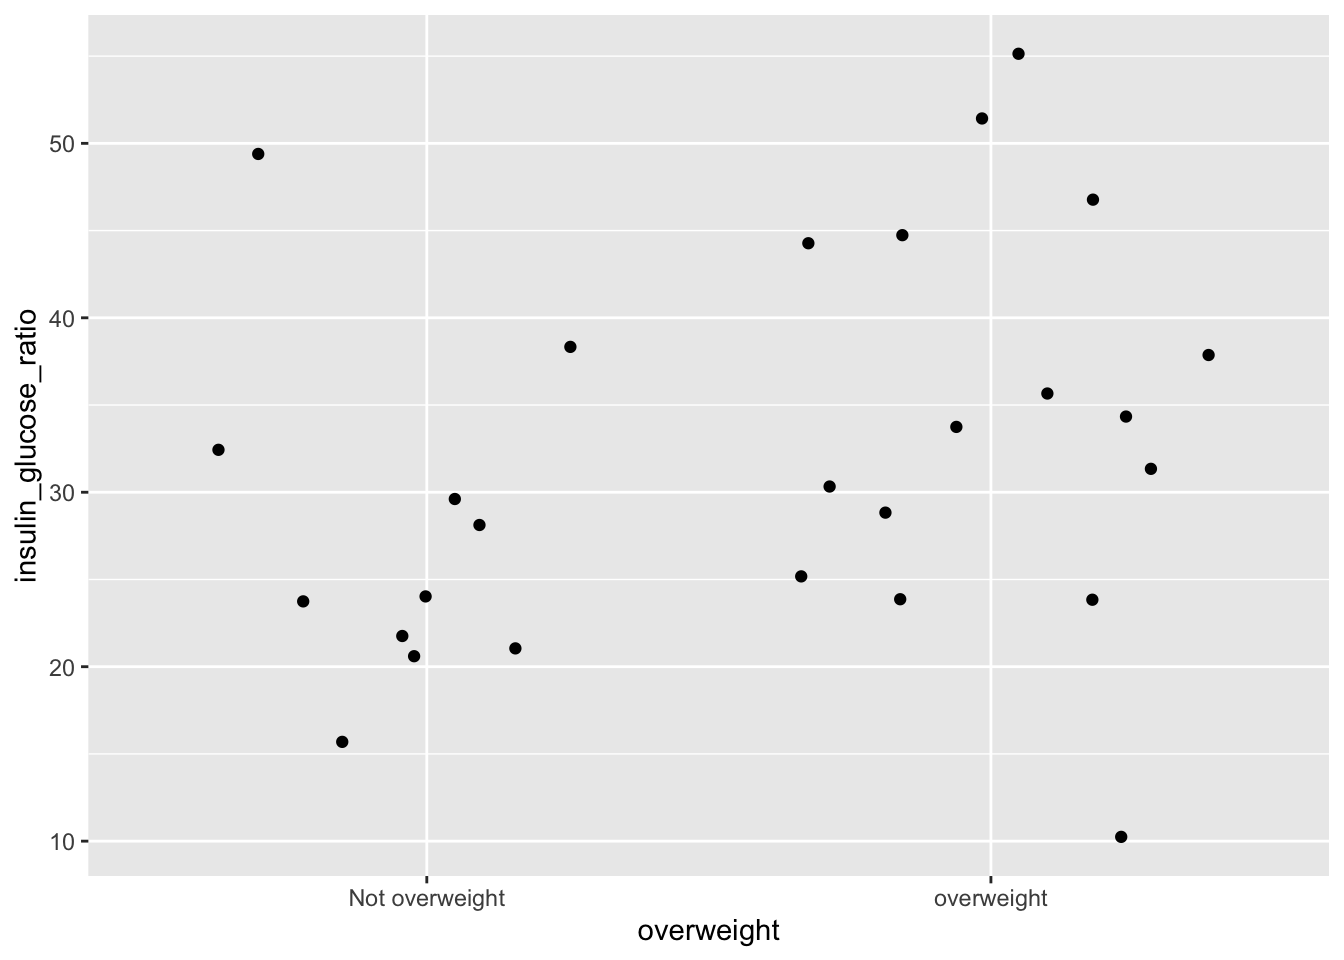
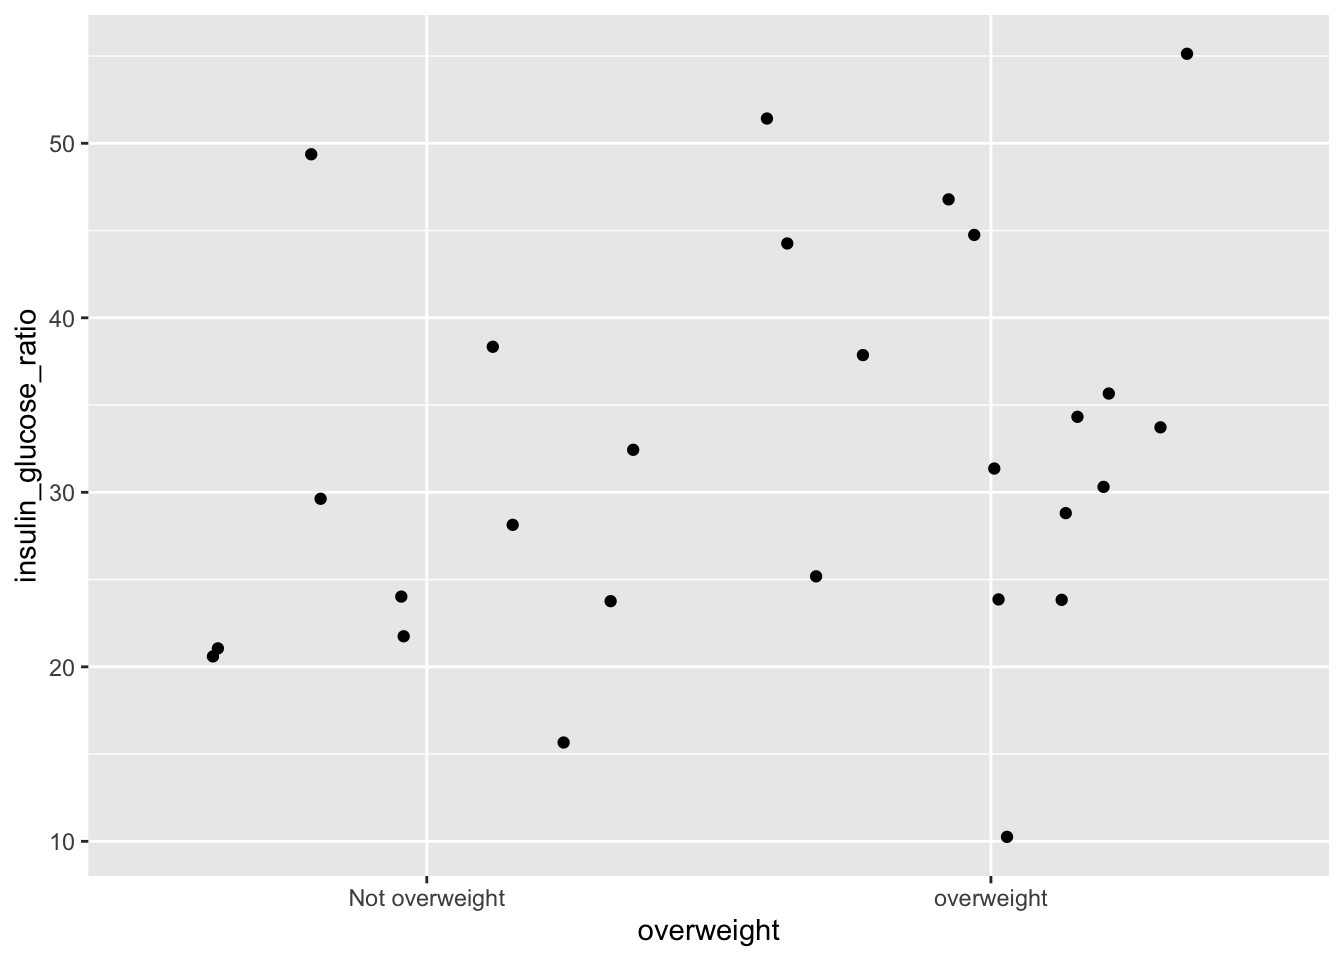
Splitting

diff --git a/learning.html b/learning.html
@@ -2430,8 +2430,9 @@ Figure&nbsp;4: scatterplot of BMI versus AUC pf blood glucose
 <h2 class="anchored" data-anchor-id="visualizing-with-jitter-plot">Visualizing with jitter plot</h2>
 <div class="cell">
 <div class="sourceCode cell-code" id="cb69"><pre class="sourceCode r code-with-copy"><code class="sourceCode r"><span id="cb69-1"><a href="#cb69-1" aria-hidden="true" tabindex="-1"></a>tidier_post_meal_data <span class="sc">|&gt;</span></span>
-<span id="cb69-2"><a href="#cb69-2" aria-hidden="true" tabindex="-1"></a>  <span class="fu">mutate</span>( <span class="at">overweight =</span> <span class="fu">if_else</span>( BMI <span class="sc">&gt;=</span> <span class="dv">25</span>, <span class="st">"overweight"</span>, <span class="st">"Not overweight"</span>)) <span class="sc">|&gt;</span></span>
-<span id="cb69-3"><a href="#cb69-3" aria-hidden="true" tabindex="-1"></a>  <span class="fu">ggplot</span>( <span class="fu">aes</span>( <span class="at">x =</span> overweight, <span class="at">y =</span> insulin_glucose_ratio)) <span class="sc">+</span> <span class="fu">geom_jitter</span>()</span></code><button title="Copy to Clipboard" class="code-copy-button"><i class="bi"></i></button></pre></div>
+<span id="cb69-2"><a href="#cb69-2" aria-hidden="true" tabindex="-1"></a>  <span class="fu">mutate</span>(<span class="at">overweight =</span> <span class="fu">if_else</span>(BMI <span class="sc">&gt;=</span> <span class="dv">25</span>, <span class="st">"overweight"</span>, <span class="st">"Not overweight"</span>)) <span class="sc">|&gt;</span></span>
+<span id="cb69-3"><a href="#cb69-3" aria-hidden="true" tabindex="-1"></a>  <span class="fu">ggplot</span>(<span class="fu">aes</span>(<span class="at">x =</span> overweight, <span class="at">y =</span> insulin_glucose_ratio)) <span class="sc">+</span></span>
+<span id="cb69-4"><a href="#cb69-4" aria-hidden="true" tabindex="-1"></a>  <span class="fu">geom_jitter</span>()</span></code><button title="Copy to Clipboard" class="code-copy-button"><i class="bi"></i></button></pre></div>
 <div class="cell-output-display">
 <div>
 <figure class="figure">
@@ -2443,7 +2444,8 @@ Figure&nbsp;4: scatterplot of BMI versus AUC pf blood glucose
 <div class="cell">
 <div class="sourceCode cell-code" id="cb70"><pre class="sourceCode r code-with-copy"><code class="sourceCode r"><span id="cb70-1"><a href="#cb70-1" aria-hidden="true" tabindex="-1"></a>tidier_post_meal_data <span class="sc">|&gt;</span></span>
 <span id="cb70-2"><a href="#cb70-2" aria-hidden="true" tabindex="-1"></a>  <span class="fu">filter</span>(BMI <span class="sc">&lt;</span> <span class="dv">30</span>) <span class="sc">|&gt;</span></span>
-<span id="cb70-3"><a href="#cb70-3" aria-hidden="true" tabindex="-1"></a>  <span class="fu">ggplot</span>( <span class="fu">aes</span>(<span class="at">x=</span> Age, <span class="at">y=</span> auc_insulin, <span class="at">color =</span> Group)) <span class="sc">+</span> <span class="fu">geom_point</span>()</span></code><button title="Copy to Clipboard" class="code-copy-button"><i class="bi"></i></button></pre></div>
+<span id="cb70-3"><a href="#cb70-3" aria-hidden="true" tabindex="-1"></a>  <span class="fu">ggplot</span>(<span class="fu">aes</span>(<span class="at">x =</span> Age, <span class="at">y =</span> auc_insulin, <span class="at">color =</span> Group)) <span class="sc">+</span></span>
+<span id="cb70-4"><a href="#cb70-4" aria-hidden="true" tabindex="-1"></a>  <span class="fu">geom_point</span>()</span></code><button title="Copy to Clipboard" class="code-copy-button"><i class="bi"></i></button></pre></div>
 <div class="cell-output-display">
 <div>
 <figure class="figure">
@@ -2456,9 +2458,9 @@ Figure&nbsp;4: scatterplot of BMI versus AUC pf blood glucose
 <div class="sourceCode cell-code" id="cb71"><pre class="sourceCode r code-with-copy"><code class="sourceCode r"><span id="cb71-1"><a href="#cb71-1" aria-hidden="true" tabindex="-1"></a>tidier_post_meal_data <span class="sc">|&gt;</span></span>
 <span id="cb71-2"><a href="#cb71-2" aria-hidden="true" tabindex="-1"></a>  <span class="fu">filter</span>(BMI <span class="sc">&lt;</span> <span class="dv">30</span>) <span class="sc">|&gt;</span></span>
 <span id="cb71-3"><a href="#cb71-3" aria-hidden="true" tabindex="-1"></a>  <span class="fu">mutate</span>(<span class="at">young =</span> <span class="fu">if_else</span>(Age <span class="sc">&lt;</span> <span class="dv">40</span>, <span class="st">"Young"</span>, <span class="st">"Old"</span>)) <span class="sc">|&gt;</span></span>
-<span id="cb71-4"><a href="#cb71-4" aria-hidden="true" tabindex="-1"></a>  <span class="fu">ggplot</span>(<span class="fu">aes</span>( <span class="at">x =</span> BMI, <span class="at">y =</span> insulin_glucose_ratio, <span class="at">colour =</span> Group )) <span class="sc">+</span> </span>
-<span id="cb71-5"><a href="#cb71-5" aria-hidden="true" tabindex="-1"></a>  <span class="fu">geom_point</span>() <span class="sc">+</span> </span>
-<span id="cb71-6"><a href="#cb71-6" aria-hidden="true" tabindex="-1"></a>  <span class="fu">facet_grid</span>( <span class="at">rows =</span> <span class="fu">vars</span> (young)) <span class="sc">+</span></span>
+<span id="cb71-4"><a href="#cb71-4" aria-hidden="true" tabindex="-1"></a>  <span class="fu">ggplot</span>(<span class="fu">aes</span>(<span class="at">x =</span> BMI, <span class="at">y =</span> insulin_glucose_ratio, <span class="at">colour =</span> Group)) <span class="sc">+</span></span>
+<span id="cb71-5"><a href="#cb71-5" aria-hidden="true" tabindex="-1"></a>  <span class="fu">geom_point</span>() <span class="sc">+</span></span>
+<span id="cb71-6"><a href="#cb71-6" aria-hidden="true" tabindex="-1"></a>  <span class="fu">facet_grid</span>(<span class="at">rows =</span> <span class="fu">vars</span>(young)) <span class="sc">+</span></span>
 <span id="cb71-7"><a href="#cb71-7" aria-hidden="true" tabindex="-1"></a>  <span class="fu">labs</span>(</span>
 <span id="cb71-8"><a href="#cb71-8" aria-hidden="true" tabindex="-1"></a>    <span class="at">x =</span> <span class="st">"Body mass index (BMI)"</span>,</span>
 <span id="cb71-9"><a href="#cb71-9" aria-hidden="true" tabindex="-1"></a>    <span class="at">y =</span> <span class="st">"Insulin to glucose ratio"</span></span>
@@ -2478,7 +2480,7 @@ Figure&nbsp;4: scatterplot of BMI versus AUC pf blood glucose
 <span id="cb72-2"><a href="#cb72-2" aria-hidden="true" tabindex="-1"></a>post_meal_data <span class="sc">|&gt;</span></span>
 <span id="cb72-3"><a href="#cb72-3" aria-hidden="true" tabindex="-1"></a>  <span class="fu">mutate</span>(</span>
 <span id="cb72-4"><a href="#cb72-4" aria-hidden="true" tabindex="-1"></a>    <span class="at">percent_body_fat =</span> (Fat.mass.DXA <span class="sc">/</span> Weight) <span class="sc">*</span> <span class="dv">100</span>,</span>
-<span id="cb72-5"><a href="#cb72-5" aria-hidden="true" tabindex="-1"></a>    <span class="at">young =</span> <span class="fu">if_else</span>( Age <span class="sc">&lt;</span> <span class="dv">40</span>, <span class="st">"Young"</span>, <span class="st">"Old"</span>)</span>
+<span id="cb72-5"><a href="#cb72-5" aria-hidden="true" tabindex="-1"></a>    <span class="at">young =</span> <span class="fu">if_else</span>(Age <span class="sc">&lt;</span> <span class="dv">40</span>, <span class="st">"Young"</span>, <span class="st">"Old"</span>)</span>
 <span id="cb72-6"><a href="#cb72-6" aria-hidden="true" tabindex="-1"></a>  ) <span class="sc">|&gt;</span></span>
 <span id="cb72-7"><a href="#cb72-7" aria-hidden="true" tabindex="-1"></a>  <span class="fu">ggplot</span>(<span class="fu">aes</span>(<span class="at">x =</span> Group, <span class="at">y =</span> percent_body_fat, <span class="at">colour =</span> young)) <span class="sc">+</span></span>
 <span id="cb72-8"><a href="#cb72-8" aria-hidden="true" tabindex="-1"></a>  <span class="fu">geom_jitter</span>(<span class="at">width =</span> <span class="fl">0.2</span>)</span>
@@ -2544,7 +2546,7 @@ Figure&nbsp;5: Two, mult-dimensional plots of our data.
 <div class="cell-output-display">
 <div>
 <figure class="figure">
-<p><img src="learning_files/figure-html/unnamed-chunk-27-1.png" class="img-fluid figure-img" width="672"></p>
+<p><img src="learning_files/figure-html/unnamed-chunk-26-1.png" class="img-fluid figure-img" width="672"></p>
 </figure>
 </div>
 </div>
@@ -2558,7 +2560,7 @@ Figure&nbsp;5: Two, mult-dimensional plots of our data.
 <div class="cell-output-display">
 <div>
 <figure class="figure">
-<p><img src="learning_files/figure-html/unnamed-chunk-27-2.png" class="img-fluid figure-img" width="672"></p>
+<p><img src="learning_files/figure-html/unnamed-chunk-26-2.png" class="img-fluid figure-img" width="672"></p>
 </figure>
 </div>
 </div>
@@ -2569,8 +2571,10 @@ Figure&nbsp;5: Two, mult-dimensional plots of our data.
 <h2 class="anchored" data-anchor-id="calculating-summary-statistics">Calculating Summary statistics</h2>
 <div class="cell">
 <div class="sourceCode cell-code" id="cb77"><pre class="sourceCode r code-with-copy"><code class="sourceCode r"><span id="cb77-1"><a href="#cb77-1" aria-hidden="true" tabindex="-1"></a>tidier_post_meal_data <span class="sc">|&gt;</span></span>
-<span id="cb77-2"><a href="#cb77-2" aria-hidden="true" tabindex="-1"></a>  <span class="fu">summarise</span>(<span class="at">max_bmi =</span> <span class="fu">max</span>(BMI) , </span>
-<span id="cb77-3"><a href="#cb77-3" aria-hidden="true" tabindex="-1"></a>            <span class="at">min_bmi =</span> <span class="fu">min</span>(BMI))</span></code><button title="Copy to Clipboard" class="code-copy-button"><i class="bi"></i></button></pre></div>
+<span id="cb77-2"><a href="#cb77-2" aria-hidden="true" tabindex="-1"></a>  <span class="fu">summarise</span>(</span>
+<span id="cb77-3"><a href="#cb77-3" aria-hidden="true" tabindex="-1"></a>    <span class="at">max_bmi =</span> <span class="fu">max</span>(BMI),</span>
+<span id="cb77-4"><a href="#cb77-4" aria-hidden="true" tabindex="-1"></a>    <span class="at">min_bmi =</span> <span class="fu">min</span>(BMI)</span>
+<span id="cb77-5"><a href="#cb77-5" aria-hidden="true" tabindex="-1"></a>  )</span></code><button title="Copy to Clipboard" class="code-copy-button"><i class="bi"></i></button></pre></div>
 <div class="cell-output cell-output-stdout">
 <pre><code>  max_bmi min_bmi
 1    33.7    20.2</code></pre>
@@ -2582,17 +2586,46 @@ Figure&nbsp;5: Two, mult-dimensional plots of our data.
 <div class="cell">
 <div class="sourceCode cell-code" id="cb79"><pre class="sourceCode r code-with-copy"><code class="sourceCode r"><span id="cb79-1"><a href="#cb79-1" aria-hidden="true" tabindex="-1"></a>tidier_post_meal_data <span class="sc">|&gt;</span></span>
 <span id="cb79-2"><a href="#cb79-2" aria-hidden="true" tabindex="-1"></a>  <span class="fu">group_by</span>(Group) <span class="sc">|&gt;</span></span>
-<span id="cb79-3"><a href="#cb79-3" aria-hidden="true" tabindex="-1"></a>  <span class="fu">summarise</span>(<span class="at">mean_age =</span> <span class="fu">mean</span>(Age), </span>
-<span id="cb79-4"><a href="#cb79-4" aria-hidden="true" tabindex="-1"></a>            <span class="at">mean_bmi =</span> <span class="fu">mean</span>(BMI)) <span class="sc">|&gt;</span></span>
-<span id="cb79-5"><a href="#cb79-5" aria-hidden="true" tabindex="-1"></a>  <span class="fu">ungroup</span>()</span></code><button title="Copy to Clipboard" class="code-copy-button"><i class="bi"></i></button></pre></div>
-<div class="cell-output cell-output-stdout">
-<pre><code># A tibble: 2 × 3
-  Group                 mean_age mean_bmi
-  &lt;chr&gt;                    &lt;dbl&gt;    &lt;dbl&gt;
-1 Control                   40.2     25.8
-2 First-degree relative     47.9     25.9</code></pre>
+<span id="cb79-3"><a href="#cb79-3" aria-hidden="true" tabindex="-1"></a>  <span class="fu">summarise</span>(</span>
+<span id="cb79-4"><a href="#cb79-4" aria-hidden="true" tabindex="-1"></a>    <span class="st">"Mean Age (yrs)"</span> <span class="ot">=</span> <span class="fu">round</span>(<span class="fu">mean</span>(Age), <span class="dv">1</span>),</span>
+<span id="cb79-5"><a href="#cb79-5" aria-hidden="true" tabindex="-1"></a>    <span class="st">"Mean BMI (kg/m^2)"</span> <span class="ot">=</span> <span class="fu">round</span>(<span class="fu">mean</span>(BMI), <span class="dv">1</span>)</span>
+<span id="cb79-6"><a href="#cb79-6" aria-hidden="true" tabindex="-1"></a>  ) <span class="sc">|&gt;</span></span>
+<span id="cb79-7"><a href="#cb79-7" aria-hidden="true" tabindex="-1"></a>  <span class="fu">ungroup</span>() <span class="sc">|&gt;</span></span>
+<span id="cb79-8"><a href="#cb79-8" aria-hidden="true" tabindex="-1"></a>  knitr<span class="sc">::</span><span class="fu">kable</span>()</span></code><button title="Copy to Clipboard" class="code-copy-button"><i class="bi"></i></button></pre></div>
+<div id="tbl-mean-age-bmi" class="cell quarto-float quarto-figure quarto-figure-center anchored">
+<figure class="quarto-float quarto-float-tbl figure">
+<figcaption class="quarto-float-caption-top quarto-float-caption quarto-float-tbl" id="tbl-mean-age-bmi-caption-0ceaefa1-69ba-4598-a22c-09a6ac19f8ca">
+Table&nbsp;1: Mean values of Age and BMI for each group.
+</figcaption>
+<div aria-describedby="tbl-mean-age-bmi-caption-0ceaefa1-69ba-4598-a22c-09a6ac19f8ca">
+<div class="cell-output-display">
+<table class="do-not-create-environment cell caption-top table table-sm table-striped small">
+<thead>
+<tr class="header">
+<th style="text-align: left;">Group</th>
+<th style="text-align: right;">Mean Age (yrs)</th>
+<th style="text-align: right;">Mean BMI (kg/m^2)</th>
+</tr>
+</thead>
+<tbody>
+<tr class="odd">
+<td style="text-align: left;">Control</td>
+<td style="text-align: right;">40.2</td>
+<td style="text-align: right;">25.8</td>
+</tr>
+<tr class="even">
+<td style="text-align: left;">First-degree relative</td>
+<td style="text-align: right;">47.9</td>
+<td style="text-align: right;">25.9</td>
+</tr>
+</tbody>
+</table>
 </div>
 </div>
+</figure>
+</div>
+</div>
+<p>See <a href="#tbl-mean-age-bmi" class="quarto-xref">Table&nbsp;1</a></p>
 </section>
 
 </main>
